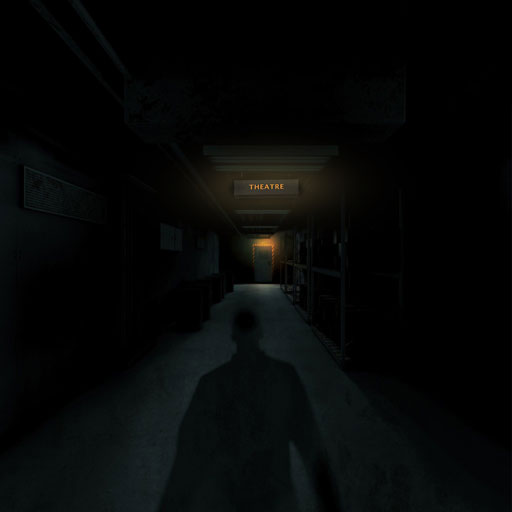
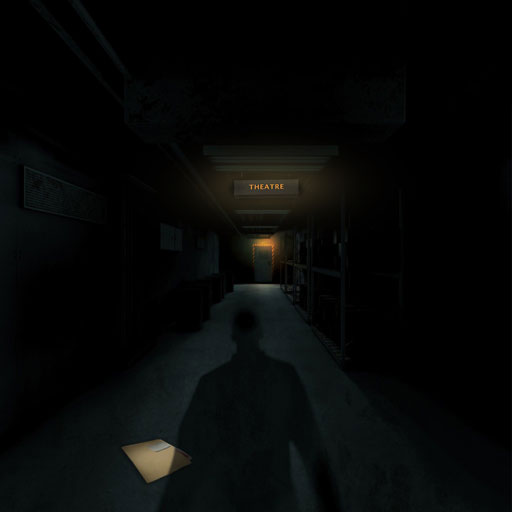
krpano tweaks and other fixes

Changed region(s): [[0.2188, 0.8438, 0.375, 0.9375]]

diff --git a/js/pano-functions-html-all.js b/js/pano-functions-html-all.js
@@ -100,27 +100,29 @@ var pano_master = function(){
         targetContainer = "panocontainer",
         xmlLoc = masterPath + "/xml/all_panos.xml?nocache="+Math.random()*5,
         swfLoc = masterPath + "/js/lib/krpano/krpano.swf"
+
+        embedpano({swf:swfLoc,  id:"krpanoObject", xml:xmlLoc, wmode: "transparent", target:"panocontainer", html5:"auto", passQueryParameters:true}); 
+           
+    // var viewer = createPanoViewer({
+    //     swf:swfLoc,
+    //     id:"krpanoObject",
+    //     wmode: "transparent",
+    //     target:"panocontainer",
+    //     html5:"auto"
+    // });
+
+    // viewer.addVariable("xml", panoXMLFile);  
+    // viewer.useHTML5("auto")
     
-    var viewer = createPanoViewer({
-        swf:swfLoc,
-        id:"krpanoObject",
-        wmode: "transparent",
-        target:"panocontainer"
-        // html:"prefer"
-    });
+    // viewer.addParam("wmode","transparent");
 
-    viewer.addVariable("xml", panoXMLFile);  
-    viewer.useHTML5("prefer+css3d")
-    
-    viewer.addParam("wmode","transparent");
-
-    this.viewer = viewer
-    viewer.bgcolor= "#ff0000"
-    viewer.passQueryParameters();
-    viewer.embed();
+    // this.viewer = viewer
+    // viewer.bgcolor= "#ff0000"
+    // viewer.passQueryParameters();
+    // viewer.embed();
 
 
-    console.log(viewer)
+    // console.log(viewer)
 
     krpano = document.getElementById("krpanoObject");
 
@@ -394,7 +396,7 @@ var pano_master = function(){
             break;
 
             case "submarine" :
-                $panocontainer.before('<video autoplay class="dynamic hide fade video-underlay" id="video-underwater" preload="auto"></video>')
+                $panocontainer.before('<div class="underwater-hanger"></div><video autoplay class="dynamic hide fade video-underlay" id="video-underwater" preload="auto"></video>')
                 that.video_underlay = true;
             break;
 

diff --git a/js/master-functions-all-panos.js b/js/master-functions-all-panos.js
@@ -64,6 +64,7 @@ var masterFunctions = function() {
 	this.ghostBuster = false
 	this.ghostMinc
 	this.viewedContentArray = []
+	this.isPlayingVO = false
 
 	// webm or h264
 	var v = document.createElement('video');
@@ -590,9 +591,24 @@ var masterFunctions = function() {
 
 		if(!_start) _start = 0
 
-		console.log('_trackName: '+'\t'+_trackName)
+		console.log('_trackName: '+'\t'+_trackName + " _ " + master.isPlayingVO)
 
 		if(parent.audiomaster.mix.getTrack(_trackName)) parent.audiomaster.mix.removeTrack(_trackName)
+		
+		/// toggle on/off logic 
+
+		if(master.isPlayingVO) {
+			master.isPlayingVO = false;
+			return;
+		}
+
+		if(_trackName == 'overlay_02'){
+
+			master.isPlayingVO = true
+
+		}
+
+
 
 		if(!_targetVolume) {_targetVolume = 1.0}
 
@@ -1666,6 +1682,8 @@ function newPano(_pano, fromPrologue) {
 
 	console.log('newPano')
 
+	master.isPlayingVO = false
+
 	if(!fromPrologue) {
 
 		$('#video-underlay').hide()
@@ -1687,7 +1705,13 @@ function newPano(_pano, fromPrologue) {
 
 }
 
+function removeBackgroundImage(divName){
 
+	console.log("remove " + divName)
+
+	$('.' + divName).remove()
+
+}
 
 function panoComplete(){
 

diff --git a/js/lib/audioMixerOFFSHORE.js b/js/lib/audioMixerOFFSHORE.js
@@ -266,8 +266,7 @@
 			return;
 		}
 
-		if ( this.options.playing ) {
-			
+		if ( this.options.playing ) {		
 			return;
 		} 
 

diff --git a/overlay/lifepreserver_starboard.php b/overlay/lifepreserver_starboard.php
@@ -1,0 +1,44 @@
+<!doctype html>
+<!--[if lt IE 7 ]> <html lang="en" class="ie6"> <![endif]-->
+<!--[if IE 7 ]>    <html lang="en" class="ie7"> <![endif]-->
+<!--[if IE 8 ]>    <html lang="en" class="ie8"> <![endif]-->
+<!--[if IE 9 ]>    <html lang="en" class="ie9"> <![endif]-->
+<!--[if !IE]><!--> <html lang="en"> <!--<![endif]-->
+<head>
+<meta name="viewport" content="width = 1050, user-scalable = no" />
+<link rel="stylesheet" type="text/css" href="../css/font-awesome.css">
+<link rel="stylesheet" type="text/css" href="../css/style.css">
+<!-- JavaScripts -->
+<script type="text/javascript" src="../js/lib/jquery.min.js"></script>
+<script type="text/javascript" src="../js/lib/jquery-ui.min.js"></script>
+</head>
+<body style="background:none">
+
+
+
+<div style="font-size: 1.5em;padding-top:10%;width:55%;margin:auto">
+
+<p>Before the spill, two-thirds of U.S. oysters and 40% of America's seafood catch came from the Gulf Coast, a three billion dollar industry. Since the 2010 spill, Louisiana's statewide oyster catch has dropped by more than 25%. Efforts to reseed oyster beds have failed as spat continue to die. </p>
+
+<p>In Louisiana, two years after the spill, the brown shrimp harvest dropped to 28.7 million pounds, a 36% decline compared to the average between 2002 and 2009.</p>
+
+<p>Blue crab landings are off an average of 18%.</p>
+
+<p><a href="http://www.cnn.com/2013/04/27/us/gulf-disaster-fishing-industry/index.html" target="_BLANK">Find out more >></a></a>
+
+</div>
+
+<a id="close-control" class="platform-nav">Close</a>
+
+
+<script type="text/javascript">
+
+  $(".platform-nav").click(function(){
+    parent.master.closeOverlay()
+  })
+
+
+</script>
+
+</body>
+</html>

diff --git a/overlay/about.php b/overlay/about.php
@@ -1,0 +1,42 @@
+<!doctype html>
+<!--[if lt IE 7 ]> <html lang="en" class="ie6"> <![endif]-->
+<!--[if IE 7 ]>    <html lang="en" class="ie7"> <![endif]-->
+<!--[if IE 8 ]>    <html lang="en" class="ie8"> <![endif]-->
+<!--[if IE 9 ]>    <html lang="en" class="ie9"> <![endif]-->
+<!--[if !IE]><!--> <html lang="en"> <!--<![endif]-->
+<head>
+<meta name="viewport" content="width = 1050, user-scalable = no" />
+<link rel="stylesheet" type="text/css" href="../css/font-awesome.css">
+<link rel="stylesheet" type="text/css" href="../css/style.css">
+<!-- JavaScripts -->
+<script type="text/javascript" src="../js/lib/jquery.min.js"></script>
+<script type="text/javascript" src="../js/lib/jquery-ui.min.js"></script>
+</head>
+<body style="background:none">
+
+
+
+<div style="font-size: 1.5em;padding-top:10%;width:55%;margin:auto">
+
+<p>On July 29, 2010, the U.S. Federal Food and Drug Administration opened state waters in the Gulf of Mexico that had been closed due to the spill, declaring that the seafood was safe.</p>
+
+<p>Many fishers and scientists, however, remain concerned about the long-term reproductive health of marine species pointing to the fact that it took four years for the herring fishery in Alaska to collapse following the Exxon Valdez spill. </p>
+
+<p><a href="http://www.tampabay.com/news/environment/water/gulf-oil-spill-killed-millions-of-microscopic-creatures-at-base-of-food/2113157" target="_BLANK">Find out more >></a></a>
+
+</div>
+
+<a id="close-control" class="platform-nav">Close</a>
+
+
+<script type="text/javascript">
+
+  $(".platform-nav").click(function(){
+    parent.master.closeOverlay()
+  })
+
+
+</script>
+
+</body>
+</html>

diff --git a/overlay/lifepreserver_port.php b/overlay/lifepreserver_port.php
@@ -1,0 +1,42 @@
+<!doctype html>
+<!--[if lt IE 7 ]> <html lang="en" class="ie6"> <![endif]-->
+<!--[if IE 7 ]>    <html lang="en" class="ie7"> <![endif]-->
+<!--[if IE 8 ]>    <html lang="en" class="ie8"> <![endif]-->
+<!--[if IE 9 ]>    <html lang="en" class="ie9"> <![endif]-->
+<!--[if !IE]><!--> <html lang="en"> <!--<![endif]-->
+<head>
+<meta name="viewport" content="width = 1050, user-scalable = no" />
+<link rel="stylesheet" type="text/css" href="../css/font-awesome.css">
+<link rel="stylesheet" type="text/css" href="../css/style.css">
+<!-- JavaScripts -->
+<script type="text/javascript" src="../js/lib/jquery.min.js"></script>
+<script type="text/javascript" src="../js/lib/jquery-ui.min.js"></script>
+</head>
+<body style="background:none">
+
+
+
+<div style="font-size: 1.5em;padding-top:10%;width:55%;margin:auto">
+
+<p>On July 29, 2010, the U.S. Federal Food and Drug Administration opened state waters in the Gulf of Mexico that had been closed due to the spill, declaring that the seafood was safe.</p>
+
+<p>Many fishers and scientists, however, remain concerned about the long-term reproductive health of marine species pointing to the fact that it took four years for the herring fishery in Alaska to collapse following the Exxon Valdez spill. </p>
+
+<p><a href="http://www.tampabay.com/news/environment/water/gulf-oil-spill-killed-millions-of-microscopic-creatures-at-base-of-food/2113157" target="_BLANK">Find out more >></a></a>
+
+</div>
+
+<a id="close-control" class="platform-nav">Close</a>
+
+
+<script type="text/javascript">
+
+  $(".platform-nav").click(function(){
+    parent.master.closeOverlay()
+  })
+
+
+</script>
+
+</body>
+</html>

diff --git a/all_panos.php b/all_panos.php
@@ -138,7 +138,7 @@
     <script type="text/javascript" src="js/panoLoader.js"></script>
 		<script type="text/javascript" src="js/master-functions-all-panos.js"></script>
     <script type="text/javascript" src="js/lib/Tween.js"></script>
-  	<script type="text/javascript" src="js/lib/krpano_old_2/swfkrpano.js"></script>
+  	<script type="text/javascript" src="js/lib/krpano/swfkrpano.js"></script>
   	<script type="text/javascript" src="js/pano-functions-html-all.js"></script>
 
 
